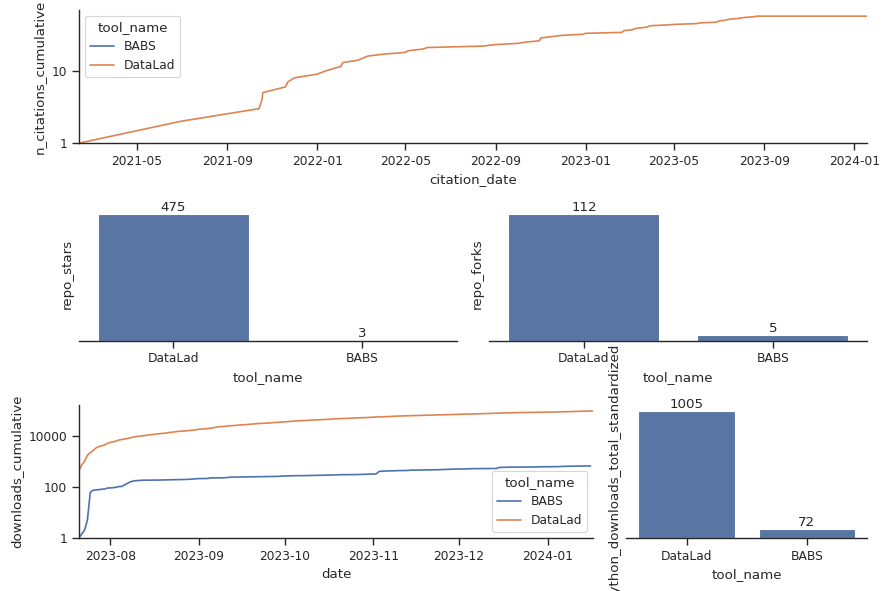
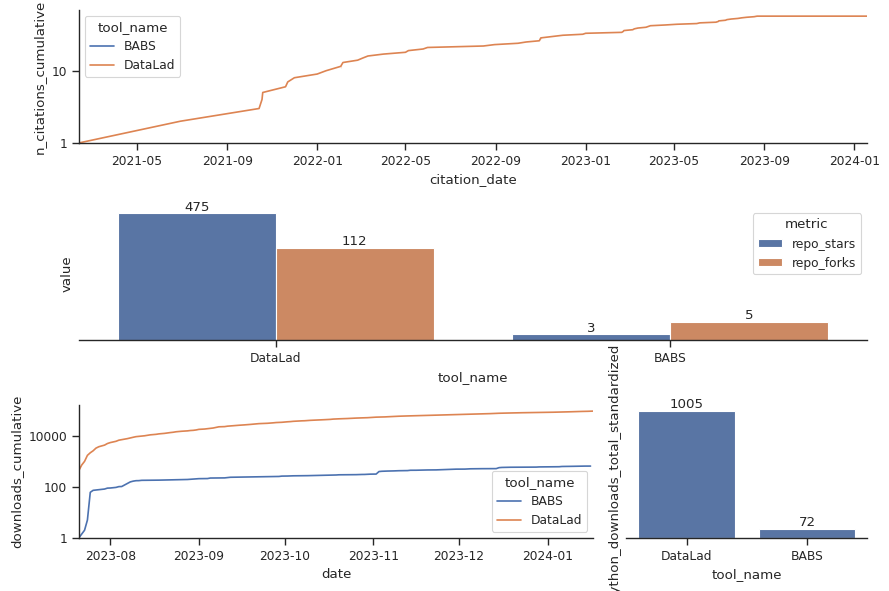
merge stars and forks into same panel

diff --git a/code/generate_figures.py b/code/generate_figures.py
@@ -72,21 +72,24 @@ def plot_citations(df_metrics: pd.DataFrame, ax=None) -> plt.Axes:
 
     return ax
 
-def plot_stars(df_metrics: pd.DataFrame, ax=None) -> plt.Axes:
-    ax = plot_bar(
-        data=df_metrics.sort_values(COL_REPO_STARS, ascending=False),
-        x=COL_NAME,
-        y=COL_REPO_STARS,
-        ax=ax,
+def plot_repo(df_metrics: pd.DataFrame, ax=None) -> plt.Axes:
+    col_metric = 'metric'
+    col_value = 'value'
+    df_metrics = df_metrics.sort_values(COL_REPO_STARS, ascending=False)
+    df_repo = pd.melt(
+        df_metrics,
+        id_vars=[COL_NAME],
+        value_vars=[COL_REPO_STARS, COL_REPO_FORKS],
+        var_name=col_metric,
+        value_name=col_value,
     )
-    return ax
-
-def plot_forks(df_metrics: pd.DataFrame, ax=None) -> plt.Axes:
     ax = plot_bar(
-        data=df_metrics.sort_values(COL_REPO_FORKS, ascending=False),
+        data=df_repo,
         x=COL_NAME,
-        y=COL_REPO_FORKS,
+        y=col_value,
+        hue=col_metric,
         ax=ax,
+        log_scale=True,
     )
     return ax
 
@@ -169,15 +172,14 @@ def generate_figures(
         dpath_figs: Path,
         config_dict: Mapping[str, Tuple[str, Callable]] = None,
         ax_height=2,
-        ax_width_unit=1.5,
+        ax_width_unit=3,
         fpath_metrics_in: Path = None,
         fpath_metrics_out: Path = None,
         overwrite: bool = False,
     ):
 
     label_citations = 'citations'
-    label_stars = 'repo_stars'
-    label_forks = 'repo_forks'
+    label_repo = 'repo'
     label_containers = 'container_pulls'
     label_python_timeseries = 'python_downloads_timeseries'
     label_python_total = 'python_downloads_total'
@@ -247,14 +249,14 @@ def generate_figures(
 
         subplot_mosaic = []
         if with_citations:
-            subplot_mosaic.append([label_citations] * 6)
+            subplot_mosaic.append([label_citations] * 3)
         if with_repo:
-            subplot_mosaic.append(([label_stars] * 3) + ([label_forks] * 3))
+            subplot_mosaic.append([label_repo] * 3)
         if with_container_pulls:
-            subplot_mosaic.append([label_containers] * 6)
+            subplot_mosaic.append([label_containers] * 3)
         if with_python_downloads_total:
             subplot_mosaic.append(
-                ([label_python_timeseries] * 4) + ([label_python_total] * 2)
+                ([label_python_timeseries] * 2) + ([label_python_total] * 1)
             )
         
         if len(subplot_mosaic) == 0:
@@ -263,11 +265,10 @@ def generate_figures(
 
         fig, axes = plt.subplot_mosaic(
             mosaic=subplot_mosaic,
-            figsize=(ax_width_unit * 6, ax_height * len(subplot_mosaic)),
+            figsize=(ax_width_unit * 3, ax_height * len(subplot_mosaic)),
         )
         ax_citations = axes.get(label_citations, None)
-        ax_stars = axes.get(label_stars, None)
-        ax_forks = axes.get(label_forks, None)
+        ax_repo = axes.get(label_repo, None)
         ax_containers = axes.get(label_containers, None)
         ax_python_timeseries = axes.get(label_python_timeseries, None)
         ax_python_total = axes.get(label_python_total, None)
@@ -278,17 +279,12 @@ def generate_figures(
                 ax=ax_citations,
             )
 
-        if ax_stars is not None:
-            plot_stars(
+        if ax_repo is not None:
+            plot_repo(
                 df_repo,
-                ax=ax_stars,
+                ax=ax_repo,
             )
 
-        if ax_forks is not None:
-            plot_forks(
-                df_repo,
-                ax=ax_forks,
-            )
         
         if ax_containers is not None:
             plot_containers_pulls(

diff --git a/code/plotting.py b/code/plotting.py
@@ -11,9 +11,13 @@ def plot_timeseries(data, x, y, **kwargs):
     sns.despine(ax=ax)
     return ax
 
-def plot_bar(data, x, y, **kwargs):
+def plot_bar(data, x, y, log_scale=False, **kwargs):
     ax = sns.barplot(data=data, x=x, y=y, **kwargs)
-    ax.bar_label(ax.containers[-1], fmt='%.0f')
+    for container in ax.containers:
+        ax.bar_label(container, fmt='%.0f')
+    if log_scale:
+        ax.set_yscale('log')
+        ax.minorticks_off()
     ax.set_yticks([])
     sns.despine(ax=ax, left=True)
     return ax
